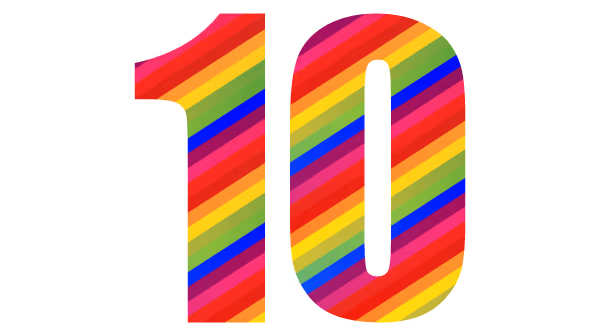
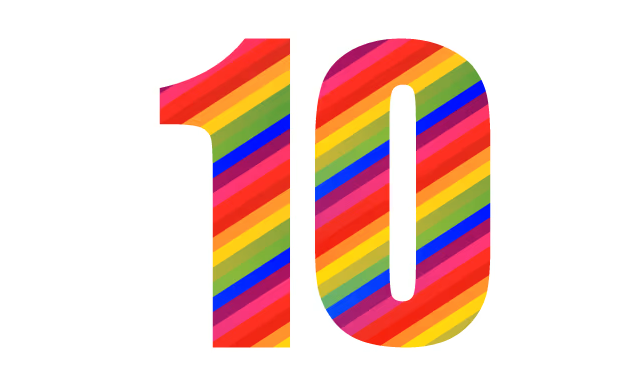
Card images update

Changed region(s): [[0.48, 0.0301, 0.78, 0.994], [0.21, 0.0301, 0.45, 0.994]]

diff --git a/src/main/kotlin/org/gorych/alice/skill/fairytail/command/NextQuestionCommand.kt b/src/main/kotlin/org/gorych/alice/skill/fairytail/command/NextQuestionCommand.kt
@@ -254,13 +254,13 @@ class NextQuestionCommand : RequestSessionStatedQuestionCommand() {
                 rightAnswersCount = 5,
                 text = FIVE_RIGHT_ANSWERS_ACHIEVEMENT_MESSAGE,
                 tts = FIVE_RIGHT_ANSWERS_ACHIEVEMENT_TTS,
-                imageId = "1533899/b3nwz0yp4x0grespgq9m"
+                imageId = "1540737/2r9xra6urchmrzktodvy"
             ),
             Achievement(
                 rightAnswersCount = 10,
                 text = TEN_RIGHT_ANSWERS_ACHIEVEMENT_MESSAGE,
                 tts = TEN_RIGHT_ANSWERS_ACHIEVEMENT_TTS,
-                imageId = "13200873/wsxsqpjci7the40iv5al"
+                imageId = "937455/2c0fqczf3oviq0v998ky"
             ),
             Achievement(
                 rightAnswersCount = 20,
